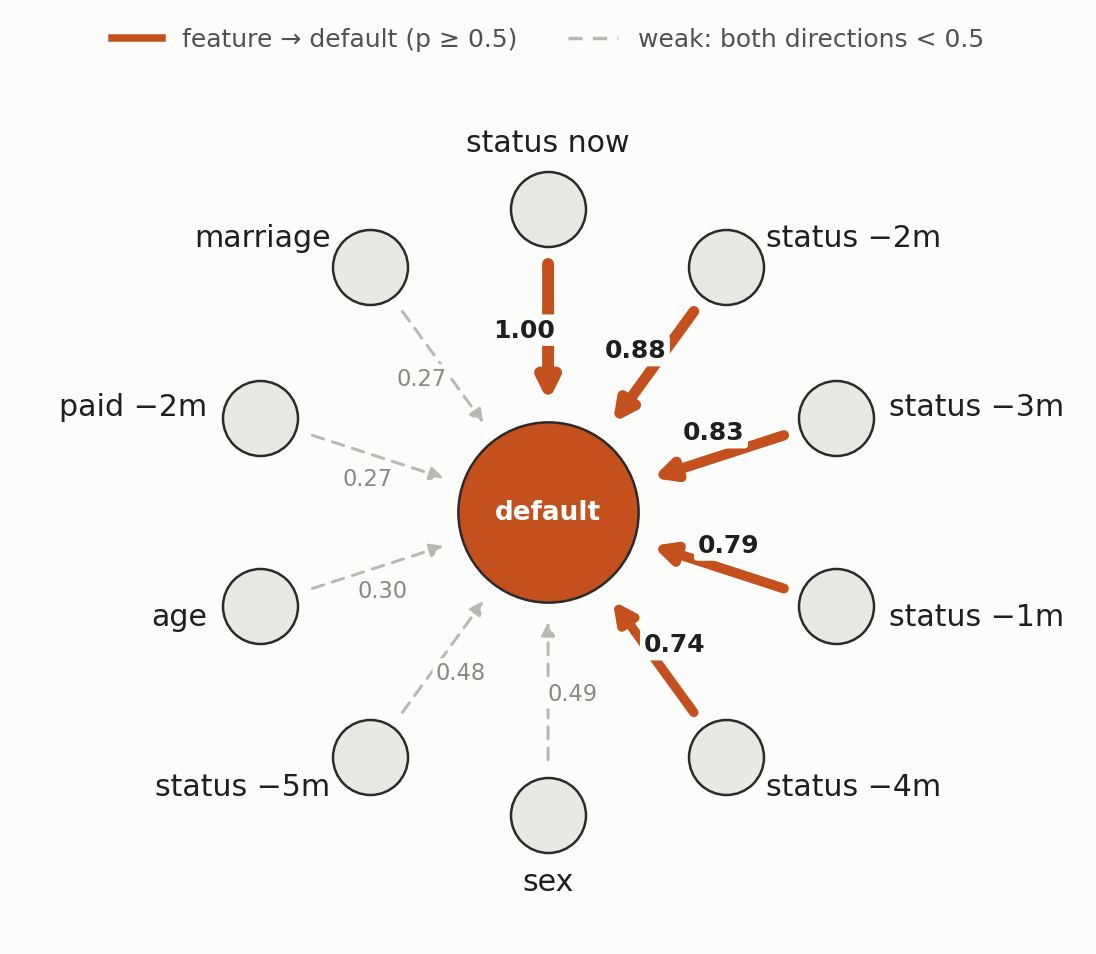
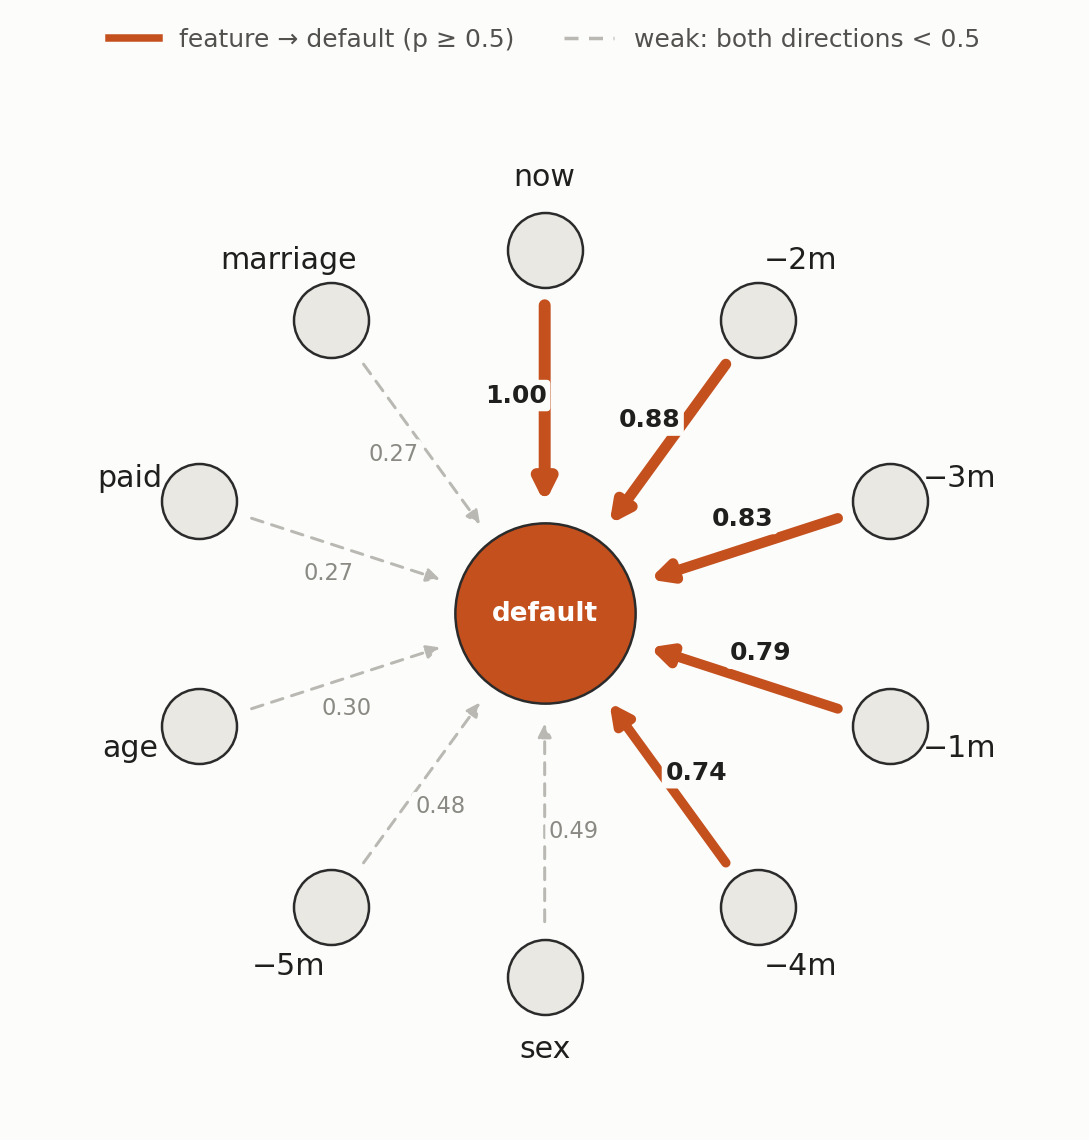
Nori-Causal post: results figures drawn with the library plot function
Claude-Session: https://claude.ai/code/session_01LfJCPxxmmaojJp4WaMi9Zr

diff --git a/blog/nori-causal/index.html b/blog/nori-causal/index.html
@@ -252,8 +252,8 @@
 <p>The UCI Credit Default table covers 30,000 card holders: their credit limit, demographics, and six months of repayment status, bills and payments. The target is whether they defaulted the next month, coded as 1 for default and 0 otherwise.</p>
 
 <figure>
-  <img src="img/credit_graph.png" alt="Graph with default in the centre: solid arrows from repayment status now (1.00), two months ago (0.88), three months ago (0.83), one month ago (0.79) and four months ago (0.74); dashed arrows below 0.5 from sex, five months ago, age, payments and marriage">
-  <figcaption><b>The ten strongest relations to default.</b> Repayment history drives default: the latest status at 1.00, and the four months before it between 0.74 and 0.88. Demographics stay below 0.5.</figcaption>
+  <img src="img/credit_graph.png" alt="Graph with default in the centre: solid arrows from repayment status now (1.00), two months ago (0.88), three months ago (0.83), one month ago (0.79) and four months ago (0.74); dashed arrows below 0.5 from sex, five months ago, age, the amount paid two months ago, and marriage">
+  <figcaption><b>The ten strongest relations to default.</b> <i>now</i>, <i>−1m</i> … <i>−5m</i>: repayment status this month and one to five months earlier; <i>paid</i>: the amount paid two months earlier. Repayment history drives default: the latest status at 1.00, and the months before it between 0.74 and 0.88. Demographics stay below 0.5.</figcaption>
 </figure>
 
 <p>In the glass-box post, the latest repayment status carried most of Nori's predictive signal. Nori-Causal now adds the direction: repayment history is a cause of default, not a consequence of it, which is what a lender needs to know before acting on it. Sex, age and marriage stay below 0.5 in both directions, so Nori-Causal does not treat them as drivers.</p>
@@ -263,7 +263,7 @@
 
 <figure>
   <img src="img/diabetes_graph.png" alt="Graph with progression in the centre: solid arrows from triglycerides (0.78) and BMI (0.60); dashed arrows below 0.5 for the other eight measurements">
-  <figcaption><b>Causes and effects of disease progression.</b> Triglycerides (0.78) and BMI (0.60) are the likely drivers; every other measurement is below 0.5 in both directions.</figcaption>
+  <figcaption><b>Causes and effects of disease progression.</b> <i>BP</i>: blood pressure; <i>TC</i>: total cholesterol. Triglycerides (0.78) and BMI (0.60) are the likely drivers; every other measurement is below 0.5 in both directions.</figcaption>
 </figure>
 
 <p>Triglycerides and BMI are also the two strongest known predictors in this dataset, and both are plausible drivers of diabetes progression. Nori-Causal names them as causes and does not commit to anything else. The dashed arrows carry a lesson too. Age, sex and blood pressure lean slightly toward being effects of progression, which cannot be right: they were measured a year before the outcome. Nori-Causal sees only the numbers, not what the columns mean or when they were recorded, which is why weak relations are drawn dashed and why the scores are evidence to check, not conclusions.</p>
